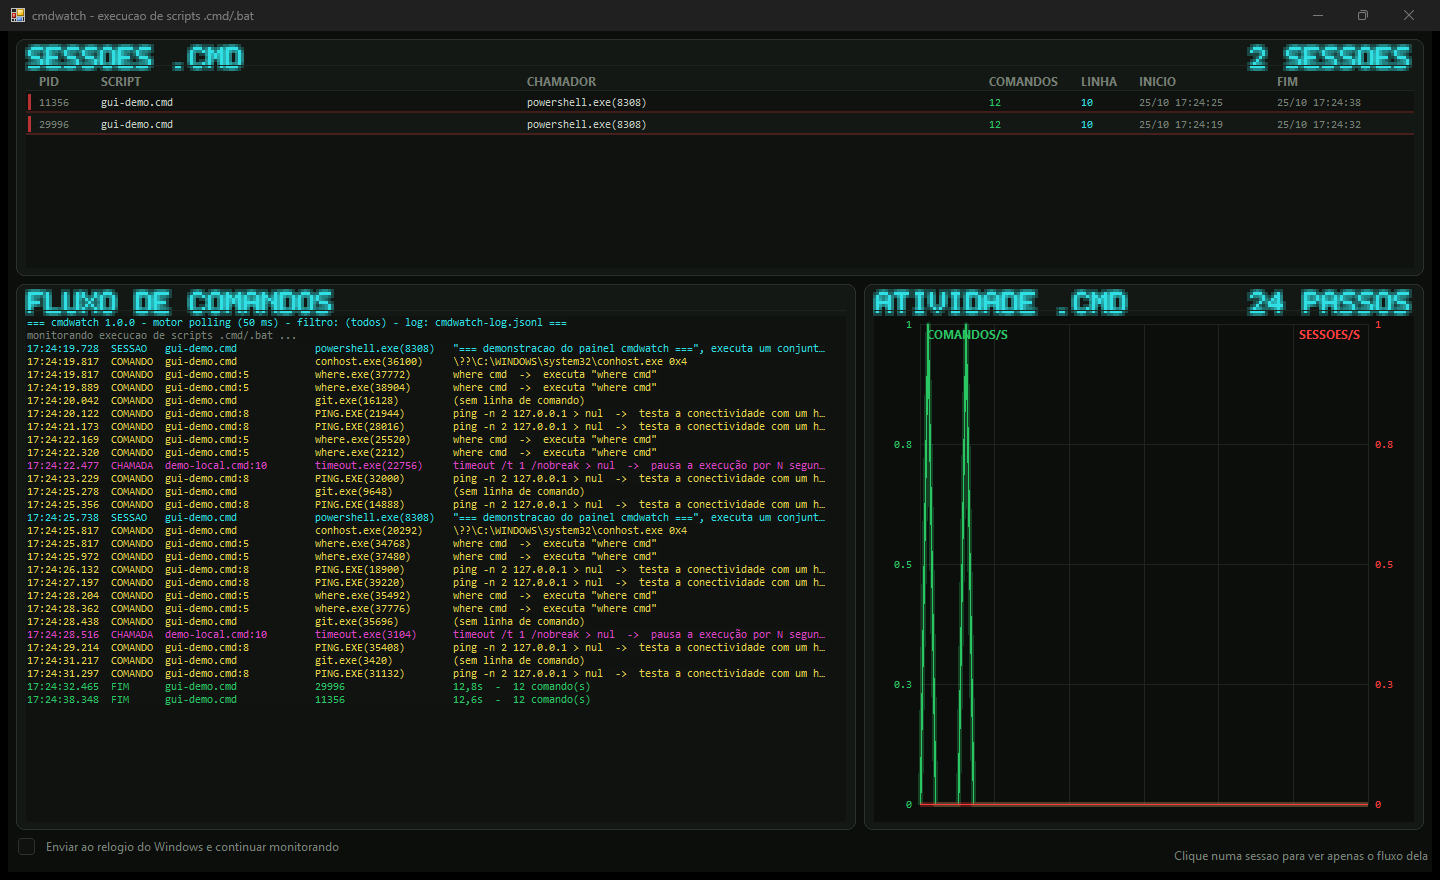
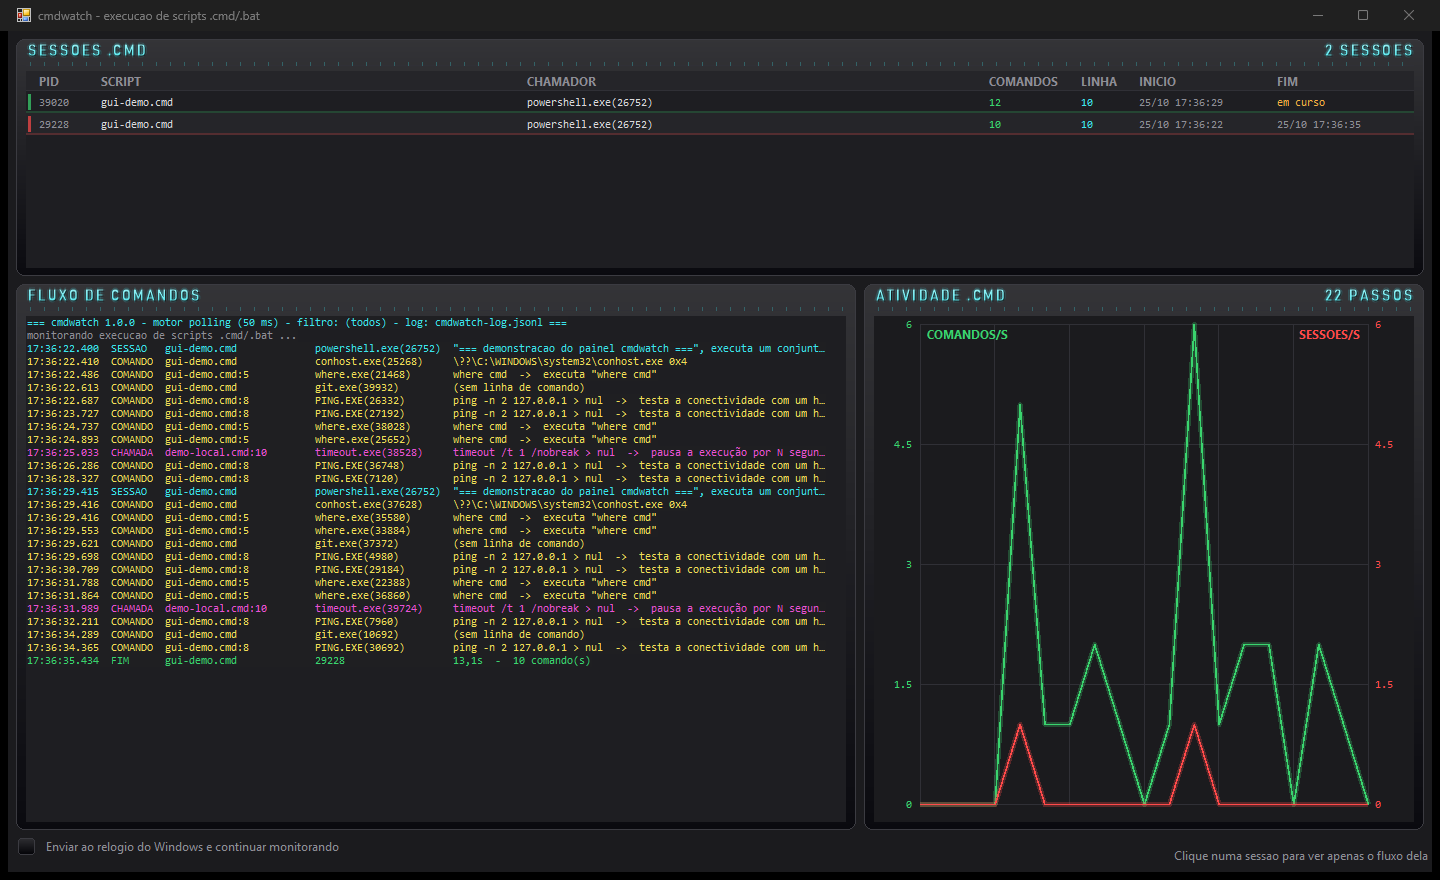
gui: fonte tecnica nos titulos das secoes e fundo em cinza escuro
- titulos em Bahnschrift SemiCondensed (fallback Agency FB / Consolas / matriz 5x7)
- maiuscula, espacamento aberto, gradiente vertical e halo neon
- fundo e paineis em cinza escuro, com gradiente vertical sutil
- marcacoes de escala sob a linha do cabecalho

diff --git a/src/gui/Theme.cs b/src/gui/Theme.cs
@@ -12,28 +12,77 @@ namespace CmdWatch.Gui
     /// </summary>
     internal static class Theme
     {
-        public static readonly Color Bg = Color.FromArgb(0x0B, 0x0E, 0x0B);
-        public static readonly Color Panel = Color.FromArgb(0x14, 0x18, 0x14);
-        public static readonly Color PanelDeep = Color.FromArgb(0x0F, 0x12, 0x0F);
-        public static readonly Color Border = Color.FromArgb(0x2A, 0x31, 0x2A);
-        public static readonly Color Grid = Color.FromArgb(0x1E, 0x24, 0x1E);
-        public static readonly Color Text = Color.FromArgb(0xC6, 0xCF, 0xC6);
-        public static readonly Color Dim = Color.FromArgb(0x76, 0x80, 0x76);
+        // fundo e superficies em cinza escuro (em vez de preto esverdeado)
+        public static readonly Color Bg = Color.FromArgb(0x1B, 0x1B, 0x1E);
+        public static readonly Color Panel = Color.FromArgb(0x25, 0x25, 0x29);
+        public static readonly Color PanelDeep = Color.FromArgb(0x1E, 0x1E, 0x22);
+        public static readonly Color Border = Color.FromArgb(0x3B, 0x3B, 0x41);
+        public static readonly Color Grid = Color.FromArgb(0x30, 0x30, 0x36);
+        public static readonly Color Text = Color.FromArgb(0xD8, 0xD8, 0xDC);
+        public static readonly Color Dim = Color.FromArgb(0x8E, 0x8E, 0x96);
 
-        public static readonly Color Cyan = Color.FromArgb(0x2F, 0xDF, 0xE4);
-        public static readonly Color Green = Color.FromArgb(0x2A, 0xC6, 0x63);
-        public static readonly Color Red = Color.FromArgb(0xFF, 0x3D, 0x3D);
-        public static readonly Color Amber = Color.FromArgb(0xF0, 0xA8, 0x3C);
-        public static readonly Color Blue = Color.FromArgb(0x3D, 0x9B, 0xE8);
-        public static readonly Color Purple = Color.FromArgb(0xA3, 0x5B, 0xF0);
-        public static readonly Color Magenta = Color.FromArgb(0xDD, 0x45, 0xC6);
-        public static readonly Color Yellow = Color.FromArgb(0xE6, 0xD2, 0x4C);
+        public static readonly Color Cyan = Color.FromArgb(0x3C, 0xE4, 0xEC);
+        public static readonly Color Green = Color.FromArgb(0x3A, 0xD4, 0x6E);
+        public static readonly Color Red = Color.FromArgb(0xFF, 0x4A, 0x4A);
+        public static readonly Color Amber = Color.FromArgb(0xF7, 0xB0, 0x42);
+        public static readonly Color Blue = Color.FromArgb(0x4A, 0xA8, 0xF2);
+        public static readonly Color Purple = Color.FromArgb(0xB0, 0x66, 0xF7);
+        public static readonly Color Magenta = Color.FromArgb(0xEA, 0x52, 0xD2);
+        public static readonly Color Yellow = Color.FromArgb(0xF0, 0xDD, 0x58);
 
         public static readonly Font Ui = new Font("Segoe UI", 8.75f, FontStyle.Regular, GraphicsUnit.Point);
         public static readonly Font UiBold = new Font("Segoe UI", 9f, FontStyle.Bold, GraphicsUnit.Point);
         public static readonly Font UiTitle = new Font("Segoe UI", 10f, FontStyle.Bold, GraphicsUnit.Point);
         public static readonly Font Mono = new Font("Consolas", 8.5f, FontStyle.Regular, GraphicsUnit.Point);
         public static readonly Font MonoSmall = new Font("Consolas", 8f, FontStyle.Regular, GraphicsUnit.Point);
+
+        private static Font _titleFont;
+        private static bool _titleFontResolved;
+
+        /// <summary>
+        /// Fonte dos titulos das secoes. Ordem de preferencia: Bahnschrift
+        /// (DIN tecnica, vem no Windows 10 1809+), Agency FB, Bahnschrift,
+        /// Consolas e, por ultimo, a matriz de pixels 5x7.
+        /// </summary>
+        public static Font TitleFont
+        {
+            get
+            {
+                if (_titleFontResolved) return _titleFont;
+                _titleFontResolved = true;
+
+                string[,] candidates =
+                {
+                    { "Bahnschrift SemiCondensed", "Regular" },
+                    { "Bahnschrift", "Regular" },
+                    { "Agency FB", "Bold" },
+                    { "Consolas", "Bold" },
+                    { "Lucida Console", "Bold" }
+                };
+
+                for (int i = 0; i < candidates.GetLength(0); i++)
+                {
+                    try
+                    {
+                        FontStyle style = (FontStyle)Enum.Parse(typeof(FontStyle), candidates[i, 1]);
+                        Font f = new Font(candidates[i, 0], 12f, style, GraphicsUnit.Point);
+                        // o construtor de Font cai silenciosamente em outra fonte:
+                        // so aceita quando o nome devolvido e o mesmo pedido
+                        if (string.Equals(f.Name, candidates[i, 0], StringComparison.OrdinalIgnoreCase))
+                        {
+                            _titleFont = f;
+                            return _titleFont;
+                        }
+                        f.Dispose();
+                    }
+                    catch { }
+                }
+
+                try { _titleFont = new Font("Segoe UI", 11f, FontStyle.Bold, GraphicsUnit.Point); }
+                catch { _titleFont = null; }
+                return _titleFont;
+            }
+        }
 
         public static GraphicsPath RoundRect(Rectangle r, int radius)
         {
@@ -54,9 +103,30 @@ namespace CmdWatch.Gui
         {
             using (GraphicsPath path = RoundRect(r, radius))
             {
-                using (SolidBrush b = new SolidBrush(fill)) g.FillPath(b, path);
+                // leve gradiente vertical: da sensacao de painel, nao de retangulo chapado
+                using (LinearGradientBrush b = new LinearGradientBrush(
+                        r, Lighten(fill, 0.07f), Darken(fill, 0.12f), LinearGradientMode.Vertical))
+                {
+                    g.FillPath(b, path);
+                }
                 using (Pen p = new Pen(border)) g.DrawPath(p, path);
             }
+        }
+
+        public static Color Lighten(Color c, float t)
+        {
+            return Color.FromArgb(c.A,
+                (int)Math.Min(255, c.R + (255 - c.R) * t),
+                (int)Math.Min(255, c.G + (255 - c.G) * t),
+                (int)Math.Min(255, c.B + (255 - c.B) * t));
+        }
+
+        public static Color Darken(Color c, float t)
+        {
+            return Color.FromArgb(c.A,
+                (int)Math.Max(0, c.R - (255 - c.R) * t),
+                (int)Math.Max(0, c.G - (255 - c.G) * t),
+                (int)Math.Max(0, c.B - (255 - c.B) * t));
         }
 
         public static Color Mix(Color a, Color b, double t)

diff --git a/src/gui/TechTitle.cs b/src/gui/TechTitle.cs
@@ -1,0 +1,109 @@
+using System;
+using System.Collections.Generic;
+using System.Drawing;
+using System.Drawing.Drawing2D;
+using System.Drawing.Text;
+
+namespace CmdWatch.Gui
+{
+    /// <summary>
+    /// Titulos das secoes em fonte tecnica (estilo instrumento/HUD): maiuscula,
+    /// espacamento aberto entre letras, gradiente vertical e halo neon.
+    /// Fallback final: a matriz de pixels 5x7, caso o sistema nao tenha
+    /// nenhuma das fontes tecnicas.
+    /// </summary>
+    internal static class TechTitle
+    {
+        private const float Tracking = 2.4f;
+        private static readonly Dictionary<char, float> WidthCache = new Dictionary<char, float>();
+
+        public static void Draw(Graphics g, string text, Rectangle area, Color color)
+        {
+            Draw(g, text, area, color, false);
+        }
+
+        public static void Draw(Graphics g, string text, Rectangle area, Color color, bool rightAlign)
+        {
+            if (string.IsNullOrEmpty(text)) return;
+
+            Font f = Theme.TitleFont;
+            if (f == null)
+            {
+                // nenhum fonte de texto disponivel: usa a matriz de pixels
+                PixelFont.Draw(g, text, area.Left, area.Top, 3, color, true);
+                return;
+            }
+
+            TextRenderingHint old = g.TextRenderingHint;
+            g.TextRenderingHint = TextRenderingHint.AntiAliasGridFit;
+
+            string up = text.ToUpperInvariant();
+            float total = MeasureWidth(g, up, f);
+            float x = rightAlign ? area.Right - total : area.Left;
+            float y = area.Y + (area.Height - f.GetHeight(g)) / 2f;
+
+            // halo: 4 passadas deslocadas em uma cor translucida
+            using (SolidBrush glow = new SolidBrush(Color.FromArgb(44, color)))
+            {
+                int[] dx = { -2, 2, 0, 0 };
+                int[] dy = { 0, 0, -2, 2 };
+                for (int i = 0; i < 4; i++)
+                    DrawTracked(g, up, f, x + dx[i], y + dy[i], glow);
+            }
+
+            // sombra dura para dar profundidade
+            using (SolidBrush shadow = new SolidBrush(Color.FromArgb(130, Color.Black)))
+                DrawTracked(g, up, f, x + 1, y + 1, shadow);
+
+            // corpo com gradiente (topo mais claro)
+            using (LinearGradientBrush grad = new LinearGradientBrush(
+                    new RectangleF(x, y, Math.Max(1f, total), f.GetHeight(g)),
+                    Lighten(color, 0.5f), color, LinearGradientMode.Vertical))
+            {
+                DrawTracked(g, up, f, x, y, grad);
+            }
+
+            g.TextRenderingHint = old;
+        }
+
+        public static float MeasureWidth(Graphics g, string text, Font f)
+        {
+            if (string.IsNullOrEmpty(text) || f == null) return 0;
+            string up = text.ToUpperInvariant();
+            float total = 0;
+            foreach (char ch in up) total += CharW(g, ch, f) + Tracking;
+            return total;
+        }
+
+        private static void DrawTracked(Graphics g, string text, Font f, float x, float y, Brush brush)
+        {
+            float cx = x;
+            foreach (char ch in text)
+            {
+                string s = ch.ToString();
+                if (s != " ")
+                    g.DrawString(s, f, brush, cx, y, StringFormat.GenericTypographic);
+                cx += CharW(g, ch, f) + Tracking;
+                // espacos ganham folga extra para o separador nao virar "."
+                if (s == " ") cx += 2.6f;
+            }
+        }
+
+        private static float CharW(Graphics g, char ch, Font f)
+        {
+            float w;
+            if (WidthCache.TryGetValue(ch, out w)) return w;
+            w = g.MeasureString(ch.ToString(), f, PointF.Empty, StringFormat.GenericTypographic).Width;
+            WidthCache[ch] = w;
+            return w;
+        }
+
+        private static Color Lighten(Color c, float t)
+        {
+            return Color.FromArgb(c.A,
+                (int)Math.Min(255, c.R + (255 - c.R) * t),
+                (int)Math.Min(255, c.G + (255 - c.G) * t),
+                (int)Math.Min(255, c.B + (255 - c.B) * t));
+        }
+    }
+}

diff --git a/src/gui/Widgets.cs b/src/gui/Widgets.cs
@@ -65,20 +65,27 @@ namespace CmdWatch.Gui
             Rectangle r = new Rectangle(0, 0, Width - 1, Height - 1);
             Theme.DrawPanel(g, r, 8, Theme.Panel, Theme.Border);
 
+            Rectangle head = new Rectangle(12, 2, Math.Max(10, Width - 24), HeaderHeight - 4);
             if (Title.Length > 0)
-                PixelFont.Draw(g, Title, 12, 8, TitleScale, Accent, true);
+                TechTitle.Draw(g, Title, head, Accent);
 
             if (TitleValue.Length > 0)
             {
-                int vw = PixelFont.MeasureWidth(TitleValue, TitleScale);
-                int tw = PixelFont.MeasureWidth(Title, TitleScale);
-                int x = Width - 12 - vw;
-                if (x > 12 + tw + 12)
-                    PixelFont.Draw(g, TitleValue, x, 8, TitleScale, Accent, true);
+                float tw = TechTitle.MeasureWidth(g, Title, Theme.TitleFont);
+                float vw = TechTitle.MeasureWidth(g, TitleValue, Theme.TitleFont);
+                if (12 + tw + 18 + vw < Width - 12)
+                    TechTitle.Draw(g, TitleValue, head, Accent, true);
             }
 
             using (Pen p = new Pen(Theme.Grid))
                 g.DrawLine(p, 10, HeaderHeight, Math.Max(10, Width - 11), HeaderHeight);
+
+            // marcacoes de escala sob a linha do cabecalho (detalhe de instrumento)
+            using (Pen tick = new Pen(Color.FromArgb(70, Accent)))
+            {
+                for (int x = 14; x < Width - 12; x += 14)
+                    g.DrawLine(tick, x, HeaderHeight - 3, x, HeaderHeight);
+            }
         }
     }
 

diff --git a/README.md b/README.md
@@ -37,13 +37,13 @@ em tempo real:
 Executável pronto para Windows 10/11 — arquivo único, sem DLLs e sem runtime extra
 (precisa apenas do .NET Framework 4.8, já presente no sistema):
 
-**[⬇ cmdwatch v1.0.1 — cmdwatch.exe (102 KB)](https://github.com/dellanio/cmdwatch/releases/latest/download/cmdwatch.exe)**
+**[⬇ cmdwatch v1.0.2 — cmdwatch.exe (105 KB)](https://github.com/dellanio/cmdwatch/releases/latest/download/cmdwatch.exe)**
 
 | | |
 |---|---|
-| Versão | 1.0.1 |
-| Tamanho | 102 KB (103.936 bytes) |
[1 lines of base64/hex data omitted]
+| Versão | 1.0.2 |
+| Tamanho | 105 KB (107.008 bytes) |
[1 lines of base64/hex data omitted]
 | Página da release | [releases/latest](https://github.com/dellanio/cmdwatch/releases/latest) |
 
 Depois de baixar:
@@ -106,8 +106,11 @@ demo\gui-demo.cmd
 O script dispara uma sequência de comandos (incluindo um `call` de outro `.cmd`) para o
 painel ter o que mostrar.
 
-> A interface é desenhada à mão em GDI+ (painéis arredondados, gráficos com halo neon e
-> títulos em fonte de matriz 5×7), sem nenhum controle de terceiros.
+> A interface é desenhada à mão em GDI+ (painéis arredondados com gradiente, gráficos com
+> halo neon, fundo em cinza escuro e marcações de escala), sem nenhum controle de terceiros.
+> Os títulos das seções usam **Bahnschrift SemiCondensed** (a DIN técnica do Windows) em
+> maiúscula com espaçamento aberto, gradiente vertical e halo neon — com **Agency FB**,
+> Consolas e a matriz de pixels 5×7 como fallbacks.
 
 ---
 
